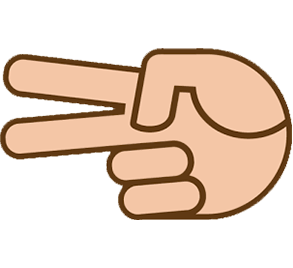
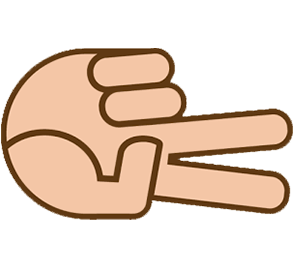
fixed mute sound and padding and margin, add other hand

diff --git a/sten-sax-pase/webb/spelsidan.css b/sten-sax-pase/webb/spelsidan.css
@@ -174,13 +174,20 @@ button#restart:hover {
 /* -------- Spelkontroller start --------- */
 
 .controls {
-  display: flex;
-  position: absolute;
-  width: 100%;
-  bottom: 0px;
-  padding: 1.7rem 2%;
-  gap: 1rem;
-  z-index: 3;
+     display: flex;
+      position: absolute;
+      width: 100%;
+      bottom: 0px;
+      padding: 1.7rem 2%;
+      gap: 1rem;
+      z-index: 3;
+      flex-wrap: nowrap;
+      align-content: center;
+      align-items: center;
+      justify-content: flex-end
+}
+::before {
+  padding-right: 30.5rem;
 }
 
 .button {

diff --git a/sten-sax-pase/webb/spelsidan.html b/sten-sax-pase/webb/spelsidan.html
@@ -61,7 +61,7 @@
         <img img class="avatar av__comp" src="img/computer_avatar_2.png" alt="">
       </div>
       <div class="hand">
-        <img src="img/left-hand-paper-svgrepo-com.svg" alt="" class="header--center">
+        <img src="img/scissorPlayer.png" alt="" class="header--center">
         <img src="img/stonePlayer.png" alt="" class="header--center" />
       </div>
       <div class="scoreboardwrapper">
